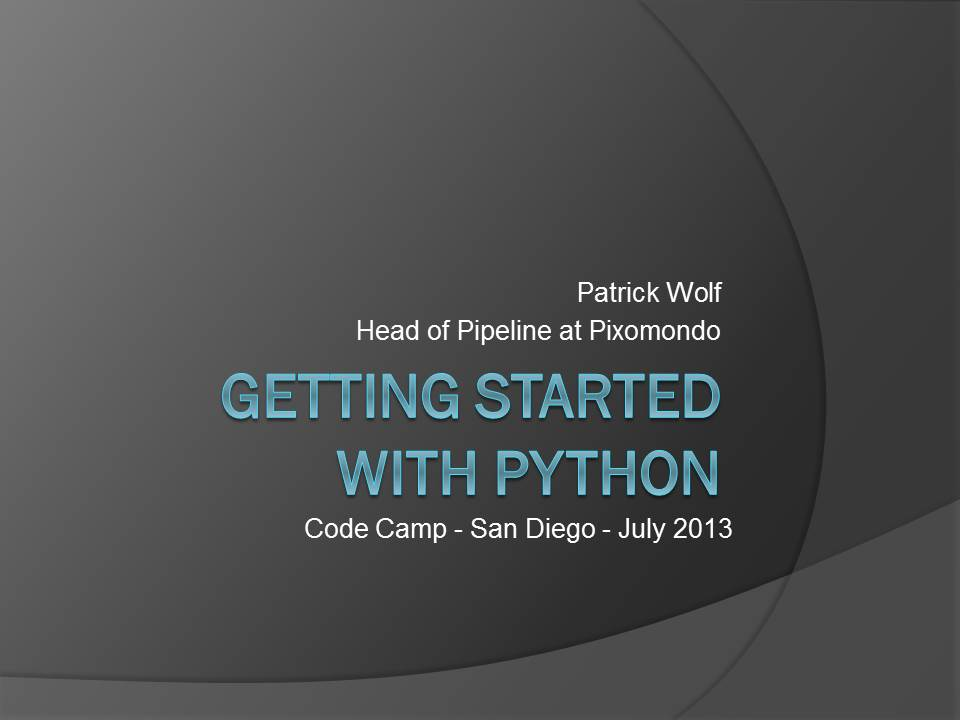
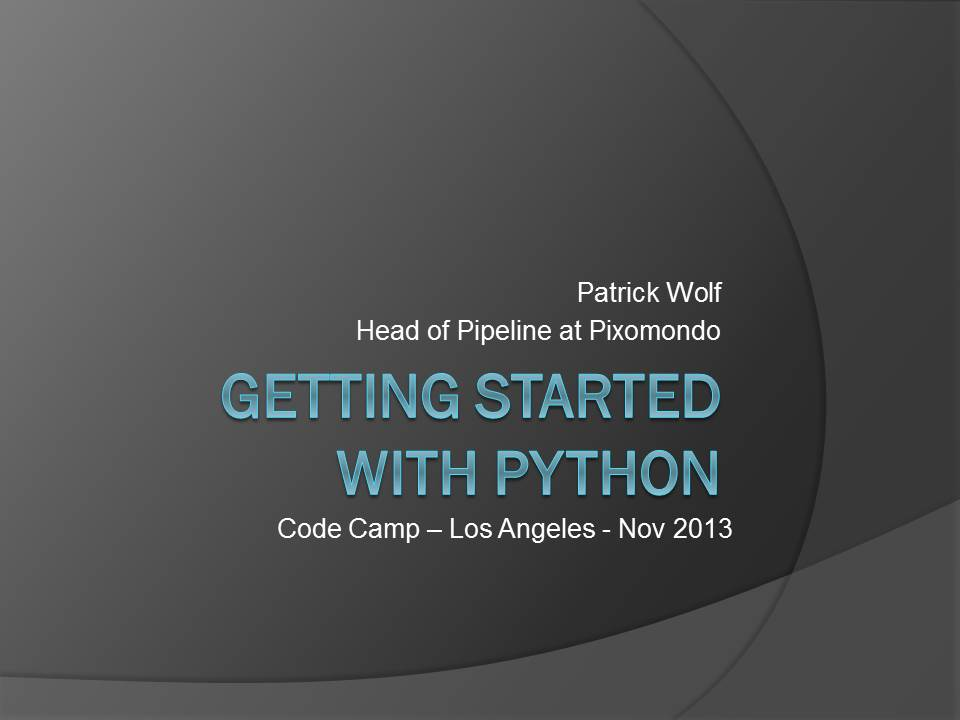
Updates CodeCamp Los Angeles Nov 2013

Changed region(s): [[0.2812, 0.7028, 0.6875, 0.7639]]

diff --git a/intro/q_dictionaries.py b/intro/q_dictionaries.py
@@ -1,7 +1,7 @@
 '''
 @summary: Python Intro - Dictionaries
 '''
-#key needs to be hashable -> immutable
+# key needs to be hashable -> immutable
 
 # -----------------------
 # Initialize empty
@@ -11,7 +11,7 @@ dic = {}
 # -----------------------
 # Init and populate
 # -----------------------
-dic = {"int":1, "st":"str", "li": [1, 2, 3],(2,3):"tuple value"}
+dic = {"int":1, "st":"str", "li": [1, 2, 3], (2, 3):"tuple value"}
 
 # -----------------------
 # Extend (value can have any type)
@@ -32,25 +32,25 @@ del dic["dic"]
 # Check for presence
 # -----------------------
 print dic.has_key("int")  # True
-print "int" in dic        # True
+print "int" in dic  # True
 
 # -----------------------
 # key has to be Immutable
 # -----------------------
-#dic={[0,1]:1}  # TypeError: unhashable type: 'list'
+# dic={[0,1]:1}  # TypeError: unhashable type: 'list'
 
-# tuple is mutable
-dic={(0,1):1}  # works
+# tuple is immutable
+dic = {(0, 1):1}  # works
 
 # -----------------------
 # Extracting
 # -----------------------
-dic={(0,1):1,"st":"abc","int":3}  
-print dic.keys()        #[(0, 1), 'int', 'st']
-print dic.values()      # [1, 3, 'abc']
-print dic.items()       # [((0, 1), 1), ('int', 3), ('st', 'abc')]
+dic = {(0, 1):1, "st":"abc", "int":3}  
+print dic.keys()  # [(0, 1), 'int', 'st']
+print dic.values()  # [1, 3, 'abc']
+print dic.items()  # [((0, 1), 1), ('int', 3), ('st', 'abc')]
 
 print "-------------------------"
-dic = {"int":1, "st":"str", "li": [1, 2, 3],(2,3):"tuple value"}
+dic = {"int":1, "st":"str", "li": [1, 2, 3], (2, 3):"tuple value"}
 for key, value in dic.iteritems():
-    print key,value
+    print key, value

diff --git a/intro_image_downloader/img_downloader.py b/intro_image_downloader/img_downloader.py
@@ -28,19 +28,27 @@ def main(argv=None):
         # MAIN APP
         # --------------
         print parser.version
+        # Check parameters
+        if not opts.url:
+            print "URL missing"
+            return
+        if not opts.dst:
+            print "Target path missing"
+            return        
+            
         ei = ExtractImages(opts.url)
         ei.get_image_urls()
         ei.download_images_from_url(None, opts.dst)       
         print "--- done ---"            
                           
     except Exception, ex:
-        print repr(ex)
-        return 2
-
+        # rethrow exception to show stack trace
+        raise
+    
 if __name__ == "__main__":
     # sample call: python img_downloader.py -u http://www.pixomondo.com/wp/?page_id=43 -d c:\temp\e
     argv = sys.argv[1:]
     if False:
         # needs to be a list as it would come in as a list from the command line as parameters
-        argv = ["-u","http://www.pixomondo.com/wp/?page_id=43","-d",r"c:\temp\img"]
+        argv = ["-u", "http://www.pixomondo.com/wp/?page_id=43", "-d", r"c:\temp\img"]
     sys.exit(main(argv))

diff --git a/intro/k_references.py b/intro/k_references.py
@@ -9,14 +9,16 @@
 print "\n--- numbers ---"
 aint = 5
 bint = aint
+print "%s,%s | id %s,%s" % (aint, bint, id(aint), id(bint))  # result 6  -  5
 aint = 6
-print "%s,%s | id %s,%s" % (aint, bint, id(aint), id(bint)) # result 6  -  5
+print "%s,%s | id %s,%s" % (aint, bint, id(aint), id(bint))  # result 6  -  5
 
 
 
 print "\n--- tuples ---"
 atu = (1, 2, 3)
 btu = atu
+print "%s,%s | id %s,%s" % (atu, btu, id(atu), id(btu))  # (1, 2, 3, 4)  -  (1, 2, 3)
 atu = atu + (4,)
 print "%s,%s | id %s,%s" % (atu, btu, id(atu), id(btu))  # (1, 2, 3, 4)  -  (1, 2, 3)
 
@@ -28,5 +30,6 @@ print "%s,%s | id %s,%s" % (atu, btu, id(atu), id(btu))  # (1, 2, 3, 4)  -  (1, 
 print "\n--- lists ---"
 ali = [1, 2, 3]
 bli = ali
+print "%s,%s | id %s,%s" % (ali, bli, id(ali), id(bli))  # [1, 2, 3, 4]  -  [1, 2, 3, 4]
 ali.append(4)
-print "%s,%s | id %s,%s" % (ali, bli, id(ali), id(bli)) # [1, 2, 3, 4]  -  [1, 2, 3, 4]
+print "%s,%s | id %s,%s" % (ali, bli, id(ali), id(bli))  # [1, 2, 3, 4]  -  [1, 2, 3, 4]

diff --git a/intro/t_functions_test.py b/intro/t_functions_test.py
@@ -4,22 +4,20 @@ Created on Jul 28, 2013
 @author: Patrick
 '''
 import unittest
-import t_functions
+import t_functions as f
 
 class Test(unittest.TestCase):
 
-
     def test_add(self):
-        result = t_functions.add(5)
+        result = f.add(5)
         self.assertEqual(result, 5)
-
-        self.assertEqual(t_functions.add(5,10), 15)
-        self.assertEqual(t_functions.add(5,cint=20), 25)
+        self.assertEqual(f.add(5, 10), 15)
+        self.assertEqual(f.add(5, cint=20), 25)
         
     def test_multiadd(self):
-        self.assertEqual(t_functions.multiadd(5,10), 15)
-        self.assertEqual(t_functions.multiadd(5,20), 25)
-        self.assertEqual(t_functions.multiadd(5,20,100,200), 325)
+        self.assertEqual(f.multiadd(5, 10), 15)
+        self.assertEqual(f.multiadd(5, 20), 25)
+        self.assertEqual(f.multiadd(5, 20, 100, 200), 325)
 
 
 if __name__ == "__main__":

diff --git a/intro/a_code_sample.py b/intro/a_code_sample.py
@@ -3,15 +3,23 @@
 '''
 
 def add(a, b):
+    """ add two numeric values """
     return a + b
 
-x = 200 
-y = 150
-z = add(x, y)
-
-if z > 100 and z < 1000:
-    print "in the hundreds:" ,z
-elif z > 0:
-    print "positive number:" , z
-else:
-    print "negative number"
+def get_info(val):
+    """ print out s"""
+    if val > 1000: 
+        print "in the thousands:" , val
+    elif val > 100 and val < 1000:
+        print "in the hundreds:" , val
+    elif val > 0:
+        print "positive number:" , val
+    else:   
+        print "negative number"
+    
+# only execute if this is the main file
+if __name__ == "__main__":
+    x = 200 
+    y = 150
+    z = add(x, y)    
+    get_info(z)

diff --git a/intro/t_functions.py b/intro/t_functions.py
@@ -6,9 +6,9 @@
 # functions 
 # ---------------------------
 
-def proc1(aint):
+def func1(aint):
     """ docstring """
-    return # return nothing (the same as return None)
+    return  # return nothing (the same as return None)
 
 # ---------------------------
 def add(aint, bint=0, cint=None):
@@ -31,11 +31,11 @@ def multiadd(*args):
     """ adds unlimited numbers together """
     result = 0
     for a in args:
-        result += a
+        result += a 
     return result
 
 
 print "\n--- multi add ---"
 print multiadd.__doc__
-print multiadd (5,3,1,2341,543,12)
+print multiadd (5, 3, 1, 2341, 543, 12)
 # ---------------------------

diff --git a/intro/d_basic_datatypes.py b/intro/d_basic_datatypes.py
@@ -6,8 +6,8 @@
 # ----------------------
 # first assignment creates name which references value in memory, types are inferred
 aint = 5
-cstr = dstr = "test"   # both cstr and dstr will contain the value: test
-aint ="test"
+cstr = dstr = "test"  # both cstr and dstr will contain the value: test
+aint = "test"
 
 # ---------------------------
 # Numbers
@@ -41,6 +41,6 @@ print "c:\\test\\abc"  # c:\test\abc
 # string formating
 print "part1 '%s' part2 '%s'" % ('a', 'b')
 
-print "part1 '%s' part2 '%s'" % 'b'
+print "part1 '%s' " % 'b'
 
 

diff --git a/intro/b_syntax.py b/intro/b_syntax.py
@@ -12,9 +12,9 @@ line2
 """
 
 # docstring to comment functions / classes etc. Will be used by intellisense / debugger etc.
-def function():
-    """ this function does a lot """
-    pass # this means don't do anything
+def my_function():
+    """ this function does a lot 12334"""
+    pass  # this means don't do anything
 
 # ----------------------
 # Indentation

diff --git a/intro/o_control_structures.py b/intro/o_control_structures.py
@@ -11,7 +11,8 @@
 #     statements
 # ----------------------
 print "\n--- if ---"
-if 10 == 5 + 5 or 20 == 10 + 10:
+if ((10 == 5 + 5 or 20 == 10 + 10) and  
+    True):
     print "correct"
 elif 10 == 20:
     print "this is wrong"
